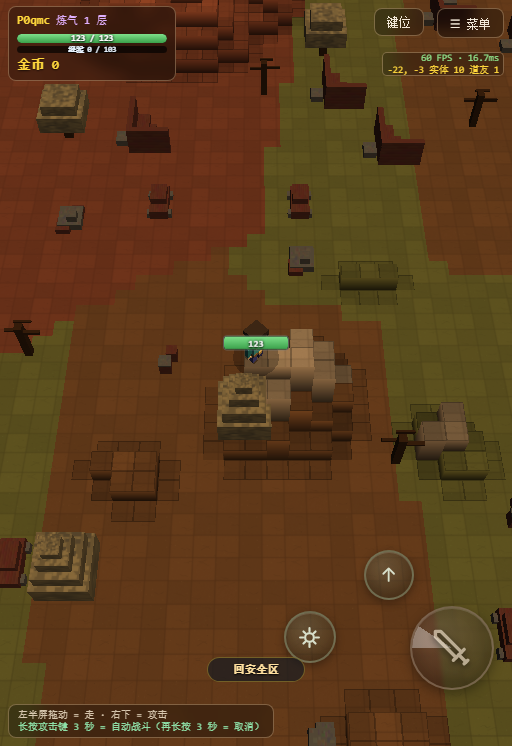
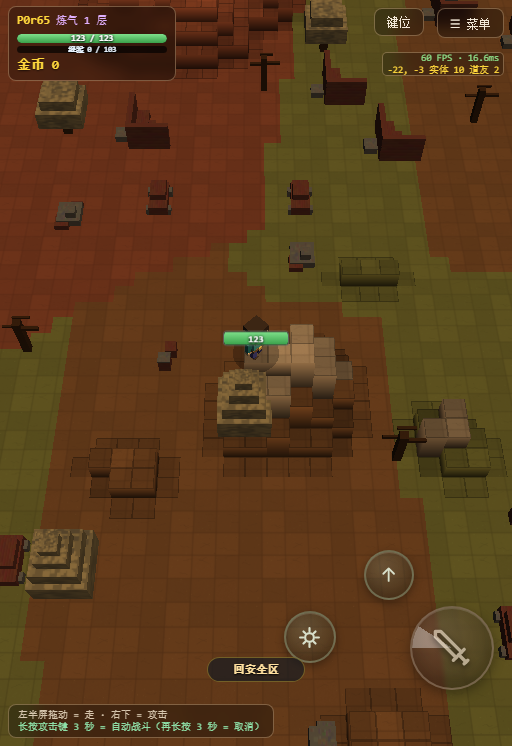
eight steps of knife work, and criticals are seen by everyone
The saber's chop count is now a table indexed by tier rather than a formula, because the
progression is not linear: one and two tiers give one chop, two and three give two, then
pairs onward up to seven chops at eleven and eight at twelve. Where the ranges overlapped in
the request I took the later group, so a second tier weapon gives two chops and a seventh
tier gives five.

And critical hits are broadcast. The hop was driven by the damage report, which only goes to
the attacker, so the leap existed on one screen - the same omission the other effects had.

The hop is also applied to remote players now, on the same curve and the same height.

diff --git a/web/platform/web.js b/web/platform/web.js
@@ -5163,6 +5163,9 @@ function wsOnMessage(raw) {
         if (d.kind === 'saber') { _ro.multiN = Math.max(2, Math.min(13, +d.n || 2)); _ro.multiT0 = performance.now(); }
         if (d.kind === 'staff') { _ro.staffT0 = performance.now() - 120; _ro.staffLen = +d.len || 4; }
         if (d.kind === 'spin') { _ro.spinUntil = performance.now() + 560; }
+        if (d.kind === 'crit') { _ro.critUntil = performance.now() + 400; }
+        if (d.kind === 'crit' || d.kind === 'spin' || d.kind === 'staff' ||
+            d.kind === 'saber') { return; }
       }
     }
     /* ★ round395：弯刀连砍 → 循环播 N 刀的动画 */

diff --git a/web/core/game.js b/web/core/game.js
@@ -4663,6 +4663,13 @@ function netUpdate(dt) {
           o.hh.sw.scale.set(1, 1, 1);
         }
       }
+      /* ★ round399：别人的暴击跳打（和本地同一套抛物线 ✓）*/
+      if (o.critUntil && _rNow < o.critUntil) {
+        var _cp = 1 - (o.critUntil - _rNow) / 400;
+        if (_cp < 0) { _cp = 0; }
+        if (_cp > 1) { _cp = 1; }
+        o.hh.g.position.y += Math.sin(_cp * Math.PI) * 3.4;
+      }
       if (o.spinUntil && _rNow < o.spinUntil) {
         var _sp2 = 1 - (o.spinUntil - _rNow) / 560;
         if (_sp2 < 0) { _sp2 = 0; }

diff --git a/server/weapons.py b/server/weapons.py
@@ -315,6 +315,17 @@ SPLASH_R = 1.5                # 溅射半径（米）
 SPLASH_MAX = 2                # 溅射最多几个（★ 斧头按品阶覆盖：2~13 ✓ 见 world.py）
 
 
+# ★ round399：弯刀连砍刀数（用户给的阶梯表 ✗ 不是线性 ✓）
+#   1-2阶1刀 · 2-3阶2刀 · 4-5阶3刀 · 6-7阶4刀 · 7-8阶5刀 · 9-10阶6刀 · 11阶7刀 · 12阶8刀
+#   ★ 区间有重叠（1-2 和 2-3 都含 2 阶）✗ 按【后写的为准】取 ✓
+SABER_CHOPS = (1, 2, 2, 3, 3, 4, 5, 5, 6, 6, 7, 8)   # 索引 = 品阶-1
+
+
+def saber_chops(tier):
+    t = max(0, min(11, int(tier) - 1)) if int(tier) >= 1 else 0
+    return SABER_CHOPS[t]
+
+
 def fx_of(look, tier):
     """取某把武器的机制数值（按品阶加成 ✓）
 
@@ -329,6 +340,9 @@ def fx_of(look, tier):
     # ★ 只有"概率触发"的才套 75% 上限 ✓ 必定触发的保持 1.0（那种靠场合门槛限制 ✓）
     chance = (cb if cb >= 1.0 else min(FX_MAX_CHANCE, cb + ci * t))
     value = vb + vi * t
+    # ★ round399：弯刀刀数走阶梯表 ✗ 不用线性公式 ✓
+    if look == 'saber':
+        value = saber_chops(tier)
     if unit == 'pct':
         vshow = round(value * 100)
     elif unit == 'int':

diff --git a/server/world.py b/server/world.py
@@ -4356,6 +4356,10 @@ class World(object):
                                             'x': round(m.x, 2), 'z': round(m.z, 2)})
 
             # ★★ 命中后按武器类型触发机制 ★★
+            # ★ round399（用户："暴击跳打也要同步"）
+            #   ★ 暴击是 mhits 里的信息 ✗ 只发给我 ✓ → 额外广播一条 ✓
+            if crit:
+                self._fx_broadcast(p, {'kind': 'crit'})
             self._weapon_fx(p, m, _fxRun, dv)
 
             if m.hp <= 0:
